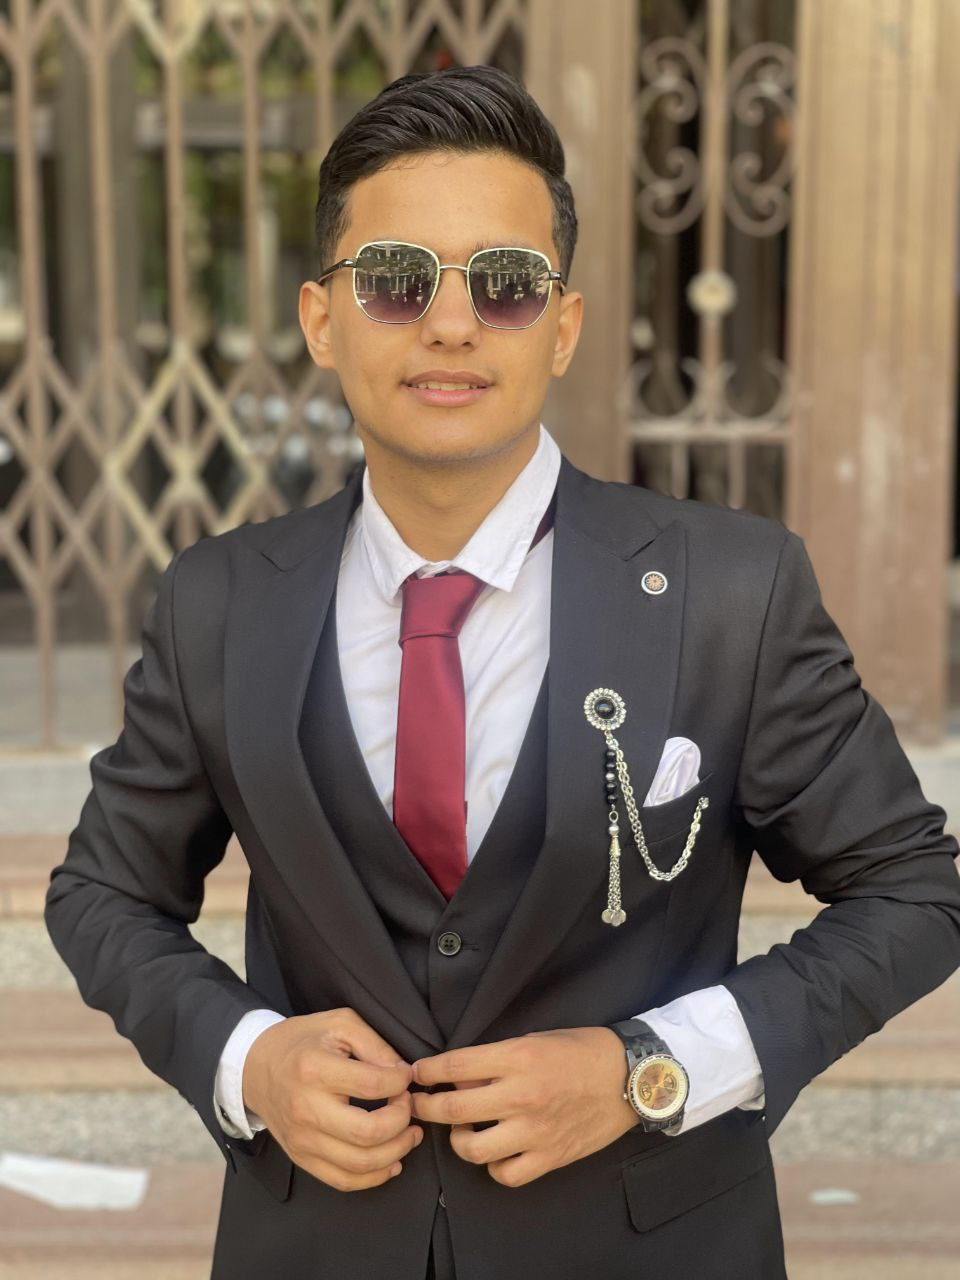
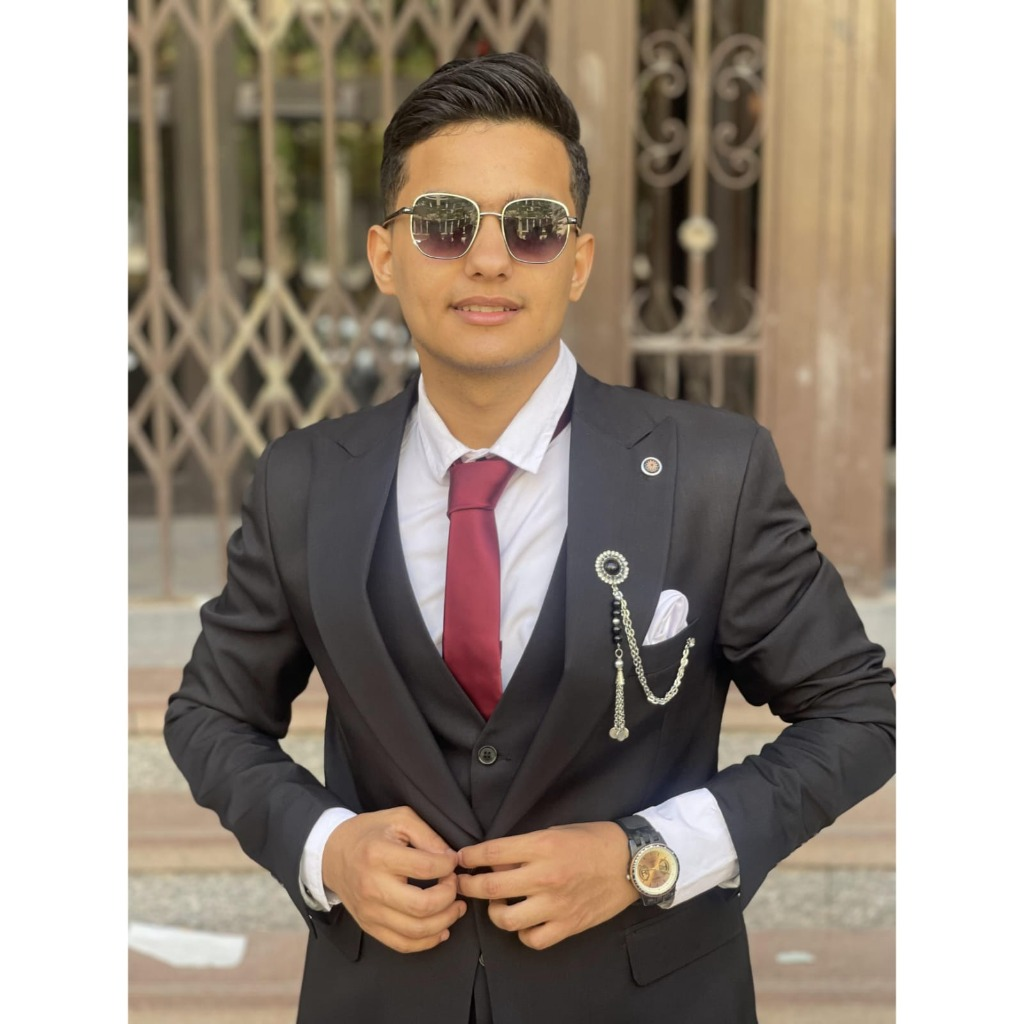
feat: add profile image, AboutSection, and Hero components

diff --git a/src/components/Hero.tsx b/src/components/Hero.tsx
@@ -260,7 +260,7 @@ export default function Hero() {
                     alt={PERSONAL_INFO.name}
                     fill
                     sizes="(max-width: 768px) 300px, 400px"
-                    className="object-contain object-center scale-105 hover:scale-110 transition-transform duration-700"
+                    className="object-contain object-[center_30%] scale-110 hover:scale-115 transition-transform duration-700"
                     priority
                   />
                 </div>

diff --git a/src/components/AboutSection.tsx b/src/components/AboutSection.tsx
@@ -71,7 +71,7 @@ export default function AboutSection() {
                       src={PERSONAL_INFO.avatar}
                       alt={PERSONAL_INFO.name}
                       fill
-                      className="object-cover"
+                      className="object-cover object-[center_30%] scale-110"
                     />
                   </motion.div>
                   <div>
